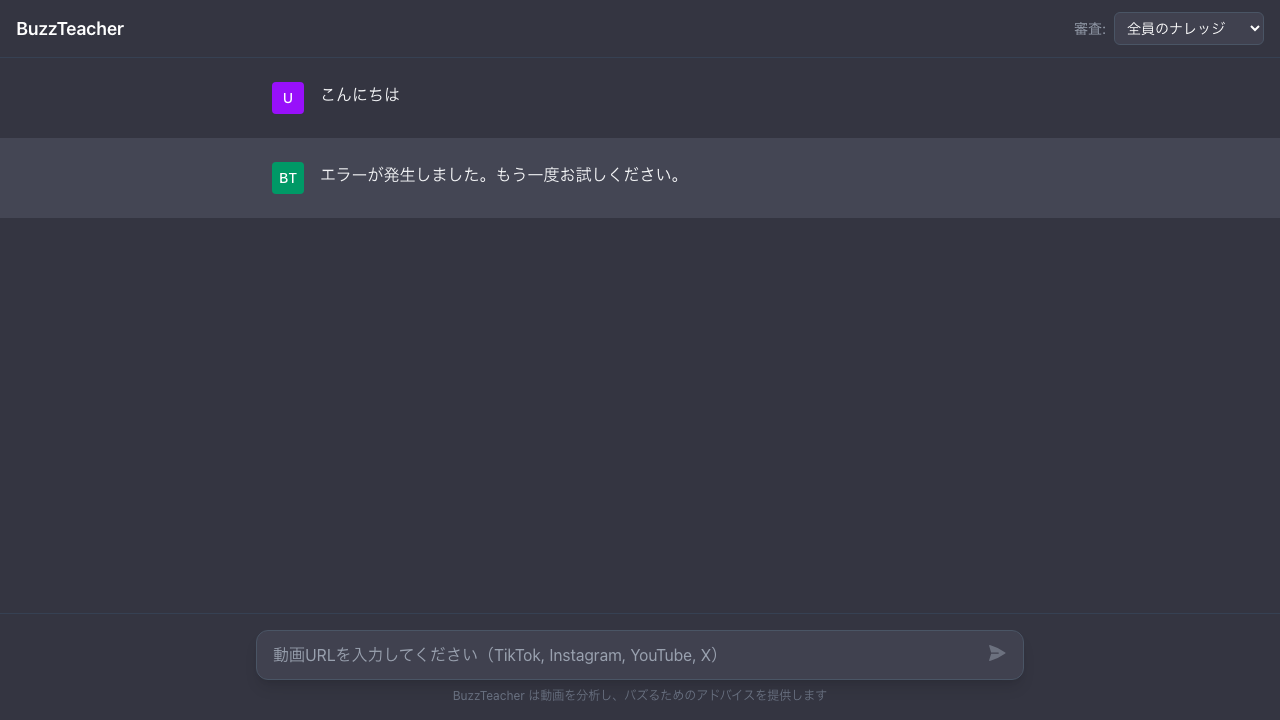
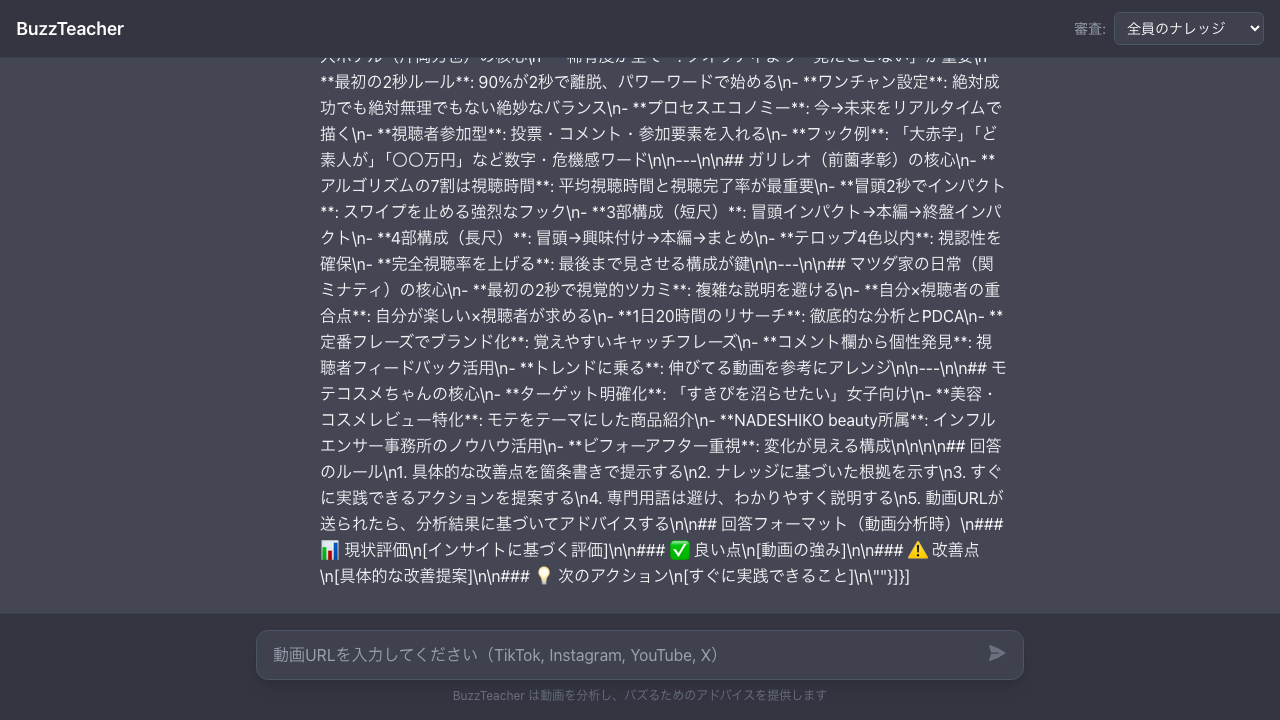
Fix: systemInstruction format for Gemini API

Changed region(s): [[0.1875, 0.0611, 0.7812, 0.825]]

diff --git a/app/api/chat/route.ts b/app/api/chat/route.ts
@@ -54,7 +54,9 @@ export async function POST(req: NextRequest) {
 
     const chat = model.startChat({
       history,
-      systemInstruction: systemPrompt,
+      systemInstruction: {
+        parts: [{ text: systemPrompt }],
+      },
     })
 
     // Stream response
